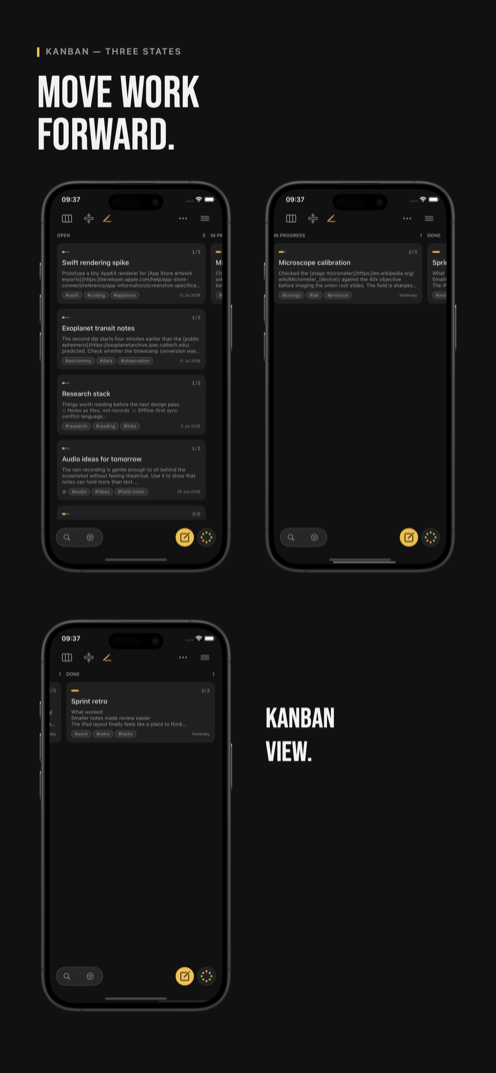
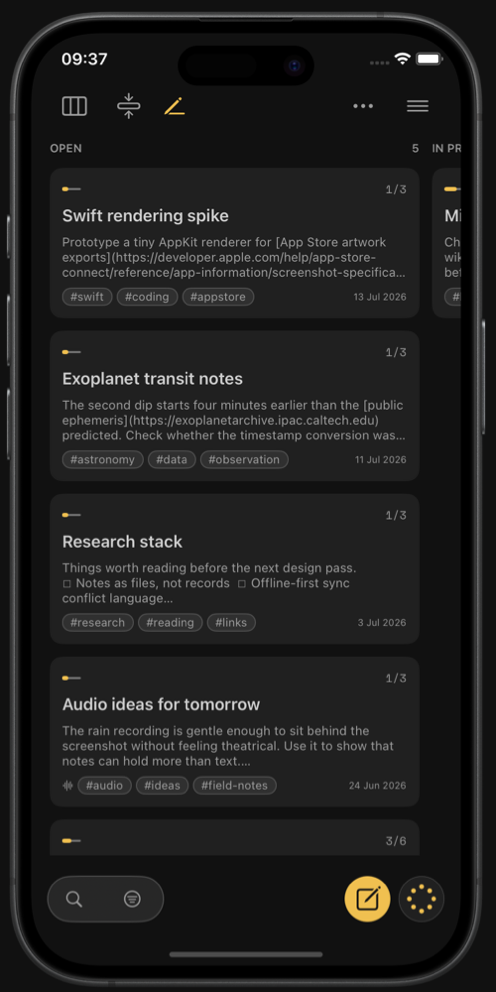
Improve Kanban and Life visuals

diff --git a/index.html b/index.html
@@ -138,14 +138,14 @@
           <p class="life-playground-kicker">A nod to the icon</p>
           <img class="life-playground-icon" src="/icon-why-240.png" alt="" width="48" height="48" loading="lazy" decoding="async">
         </div>
-        <canvas id="life-field" class="life-field" width="720" height="432" role="img" aria-label="A paused Conway's Game of Life field seeded with an R-pentomino pattern"></canvas>
+        <canvas id="life-field" class="life-field" width="720" height="576" role="img" aria-label="A paused Conway's Game of Life field seeded with an R-pentomino pattern"></canvas>
         <div class="life-controls" role="group" aria-label="Game of Life controls">
           <button class="life-button" id="life-toggle" type="button" aria-pressed="false">Let it evolve</button>
           <button class="life-button life-button--quiet" id="life-reset" type="button">Reset</button>
           <span id="life-status" class="life-status" aria-live="off">Generation 0</span>
         </div>
         <details class="life-context">
-          <summary class="life-playground-note">A small, ordinary Conway's Game of Life field. It is a playful reference, not a model of your work.</summary>
+          <summary class="life-playground-note">Every square plays a tiny survival game: living cells survive with two or three neighbours, and empty squares are born with three. This is a playful reference, not a model of your work.</summary>
           <div class="life-context-copy">
             <p class="life-deeper-link">For a deeper dive, explore <a href="https://rndrssn.github.io/platoscave/modules/emergence/" target="_blank" rel="noopener noreferrer">Plato's Cave's emergence experiments</a>.</p>
             <p class="life-reference">Reference: John Horton Conway's Game of Life (1970) &mdash; <a href="https://web.stanford.edu/class/sts145/Library/life.pdf" target="_blank" rel="noopener noreferrer">the original public account</a> by Martin Gardner.</p>
@@ -154,7 +154,7 @@
       </aside>
     </section>
 
-    <section class="feature-section feature-section--with-artwork">
+    <section class="feature-section feature-section--with-artwork feature-section--kanban">
       <div>
         <h2>Tasks, kanban, and focus</h2>
         <div class="feature-grid">
@@ -176,8 +176,8 @@
           </div>
         </div>
       </div>
-      <figure class="product-artwork product-artwork--feature">
-        <img src="/assets/marketing/kanban-496.png" srcset="/assets/marketing/kanban-496.png 496w, /assets/marketing/kanban-744.png 744w" sizes="(max-width: 760px) 224px, 256px" alt="IOTHS Kanban view on iPhone with open, in-progress, and done task lanes" width="496" height="1073" loading="lazy" decoding="async">
+      <figure class="product-artwork product-artwork--feature product-artwork--kanban">
+        <img src="/assets/marketing/kanban-496.png" srcset="/assets/marketing/kanban-496.png 496w, /assets/marketing/kanban-744.png 744w, /assets/marketing/kanban.png 1242w" sizes="(max-width: 760px) 78vw, 432px" alt="IOTHS Kanban view with a focused lane of Markdown task notes" width="496" height="992" loading="lazy" decoding="async">
       </figure>
     </section>
 
@@ -344,7 +344,7 @@
       if (!context) return;
 
       const columns = 60;
-      const rows = 36;
+      const rows = 48;
       const cellSize = 12;
       const generationInterval = 140;
       let grid = new Uint8Array(columns * rows);
@@ -358,7 +358,7 @@
       const seed = () => {
         grid.fill(0);
         [[0, 1], [1, 0], [1, 1], [1, 2], [2, 0]].forEach(([x, y]) => {
-          grid[indexFor(x + 29, y + 16)] = 1;
+          grid[indexFor(x + 29, y + 22)] = 1;
         });
         generation = 0;
       };

diff --git a/style.css b/style.css
@@ -608,6 +608,10 @@ header .link-row { margin-top: 0; }
   gap: clamp(3rem, 6vw, 5rem);
 }
 
+.feature-section--kanban {
+  grid-template-columns: minmax(0, 1fr) minmax(23rem, 0.75fr);
+}
+
 .feature-section--reversed .product-artwork {
   order: -1;
 }
@@ -621,6 +625,8 @@ header .link-row { margin-top: 0; }
   justify-self: end;
   transform: rotate(1.25deg);
 }
+
+.product-artwork--kanban { max-width: 27rem; }
 
 .feature-section--reversed .product-artwork--feature {
   justify-self: start;
@@ -881,6 +887,8 @@ header .link-row { margin-top: 0; }
   .product-artwork--feature,
   .product-artwork--source { max-width: min(22rem, 78vw); }
 
+  .product-artwork--kanban { max-width: min(27rem, 78vw); }
+
   .feature-section--reversed .product-artwork { order: 0; }
 
   .source-showcase { margin-top: 0; }
@@ -890,6 +898,7 @@ header .link-row { margin-top: 0; }
 
 html[data-design] .product-artwork--hero { max-width: 20rem; }
 html[data-design] .product-artwork--feature { max-width: 16rem; }
+html[data-design] .product-artwork--kanban { max-width: 27rem; }
 html[data-design] .product-artwork--source { max-width: 16.5rem; }
 
 /* Direction one — a warm, annotated field notebook. */
@@ -1106,6 +1115,8 @@ html[data-design="emergence"] .product-artwork--source { transform: rotate(-4deg
   html[data-design] .product-artwork--hero { max-width: min(17.5rem, 75vw); }
   html[data-design] .product-artwork--feature,
   html[data-design] .product-artwork--source { max-width: min(14rem, 60vw); }
+
+  html[data-design] .product-artwork--kanban { max-width: min(27rem, 78vw); }
 
   html[data-design="control-room"] .hero--product { min-height: 0; }
   html[data-design="emergence"] .landing-main > .feature-section:first-of-type,
